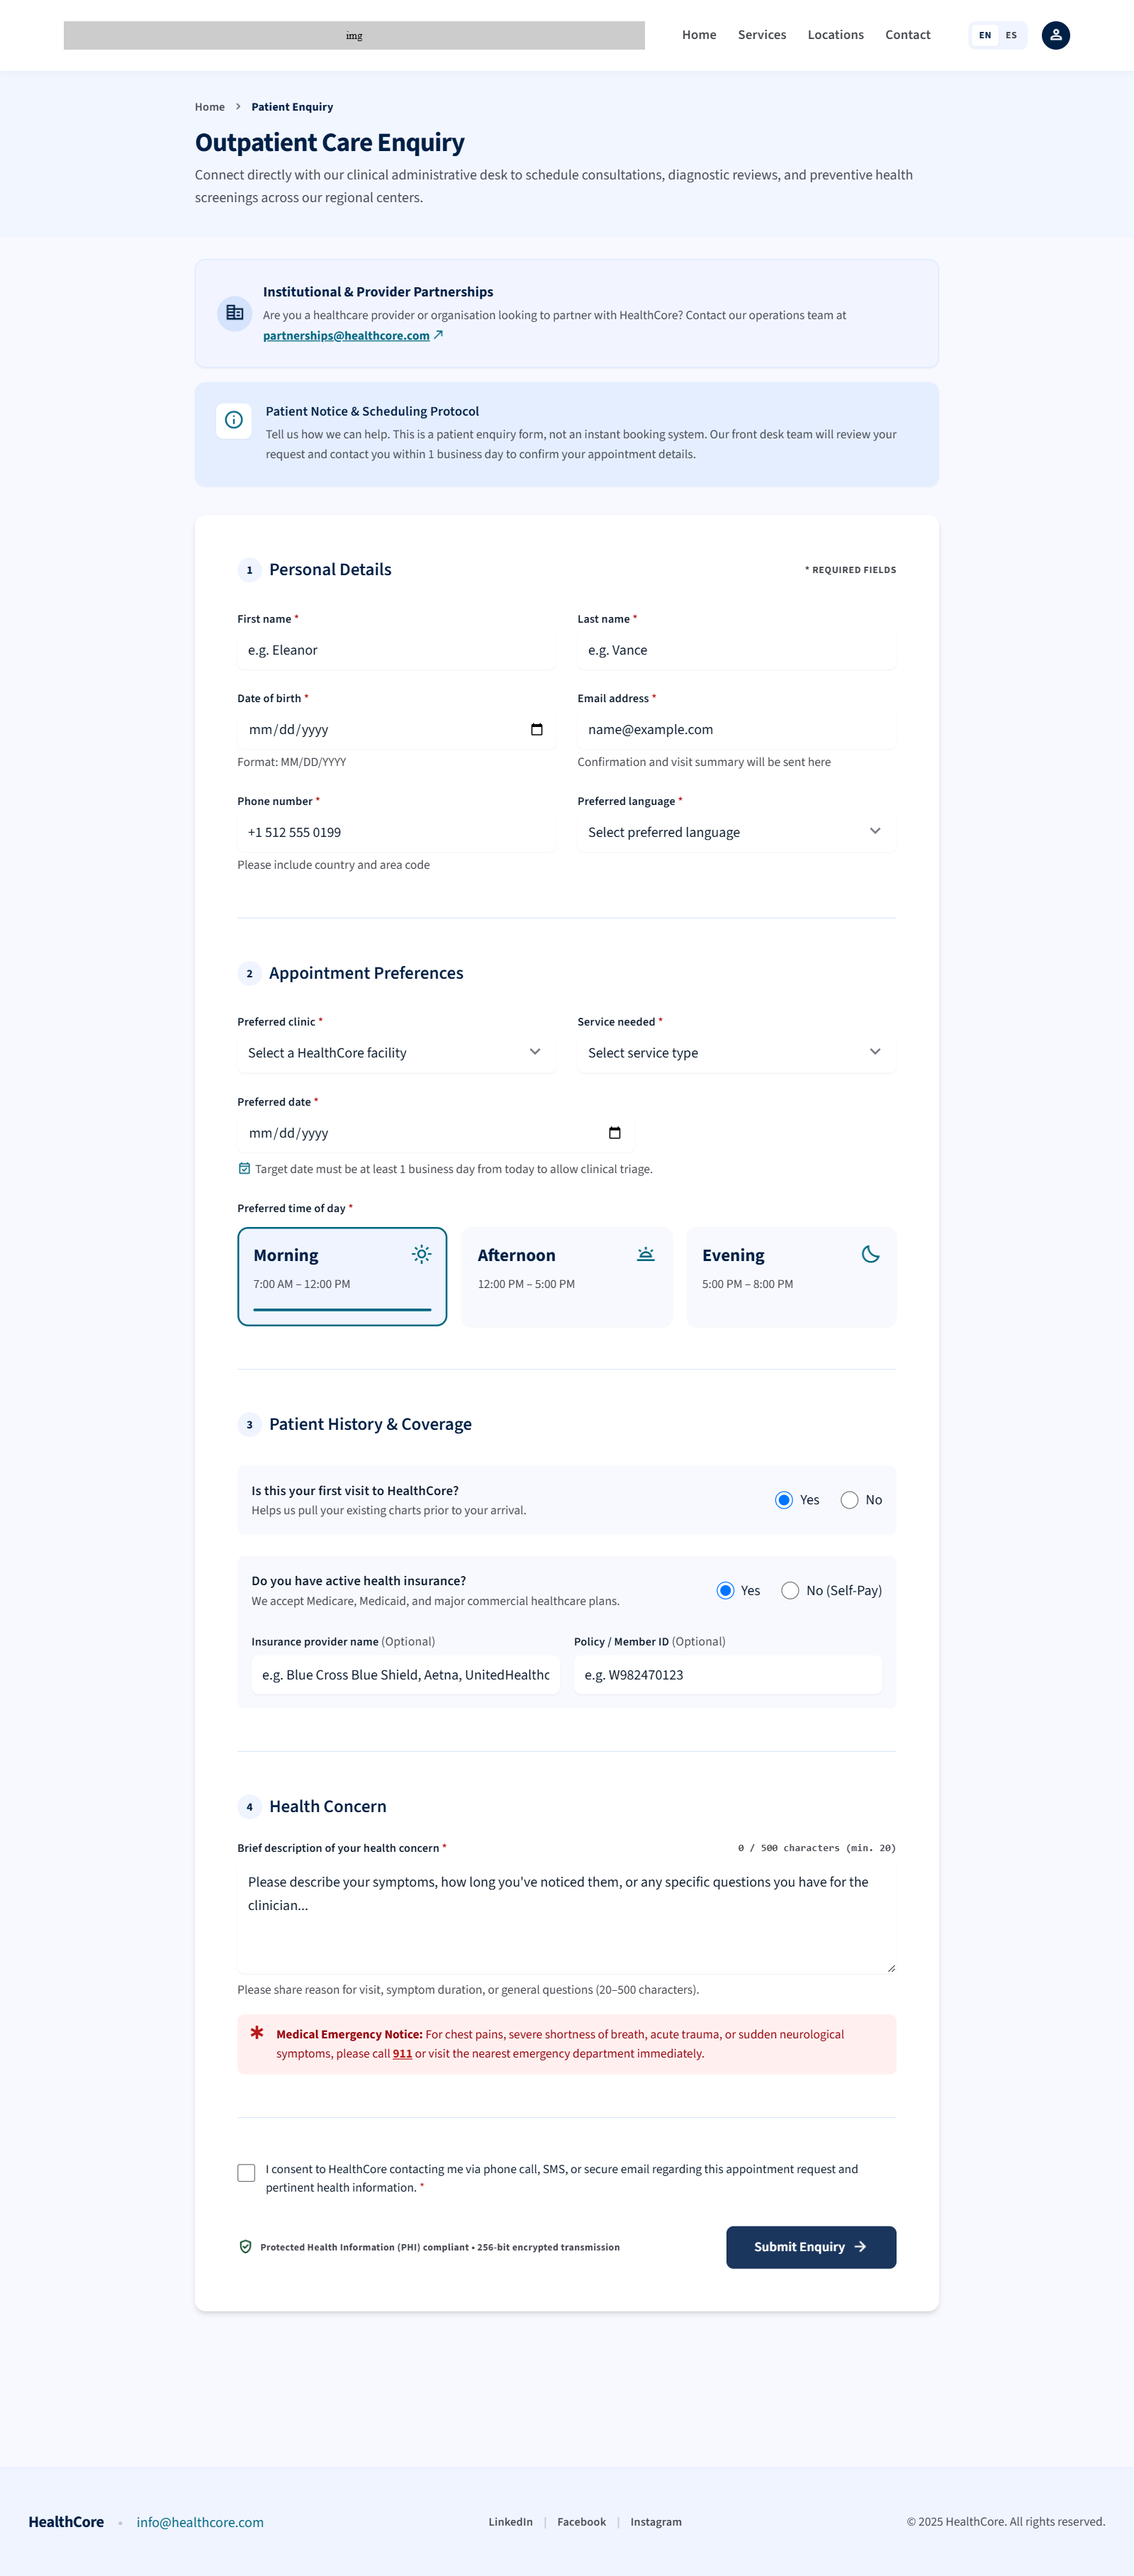
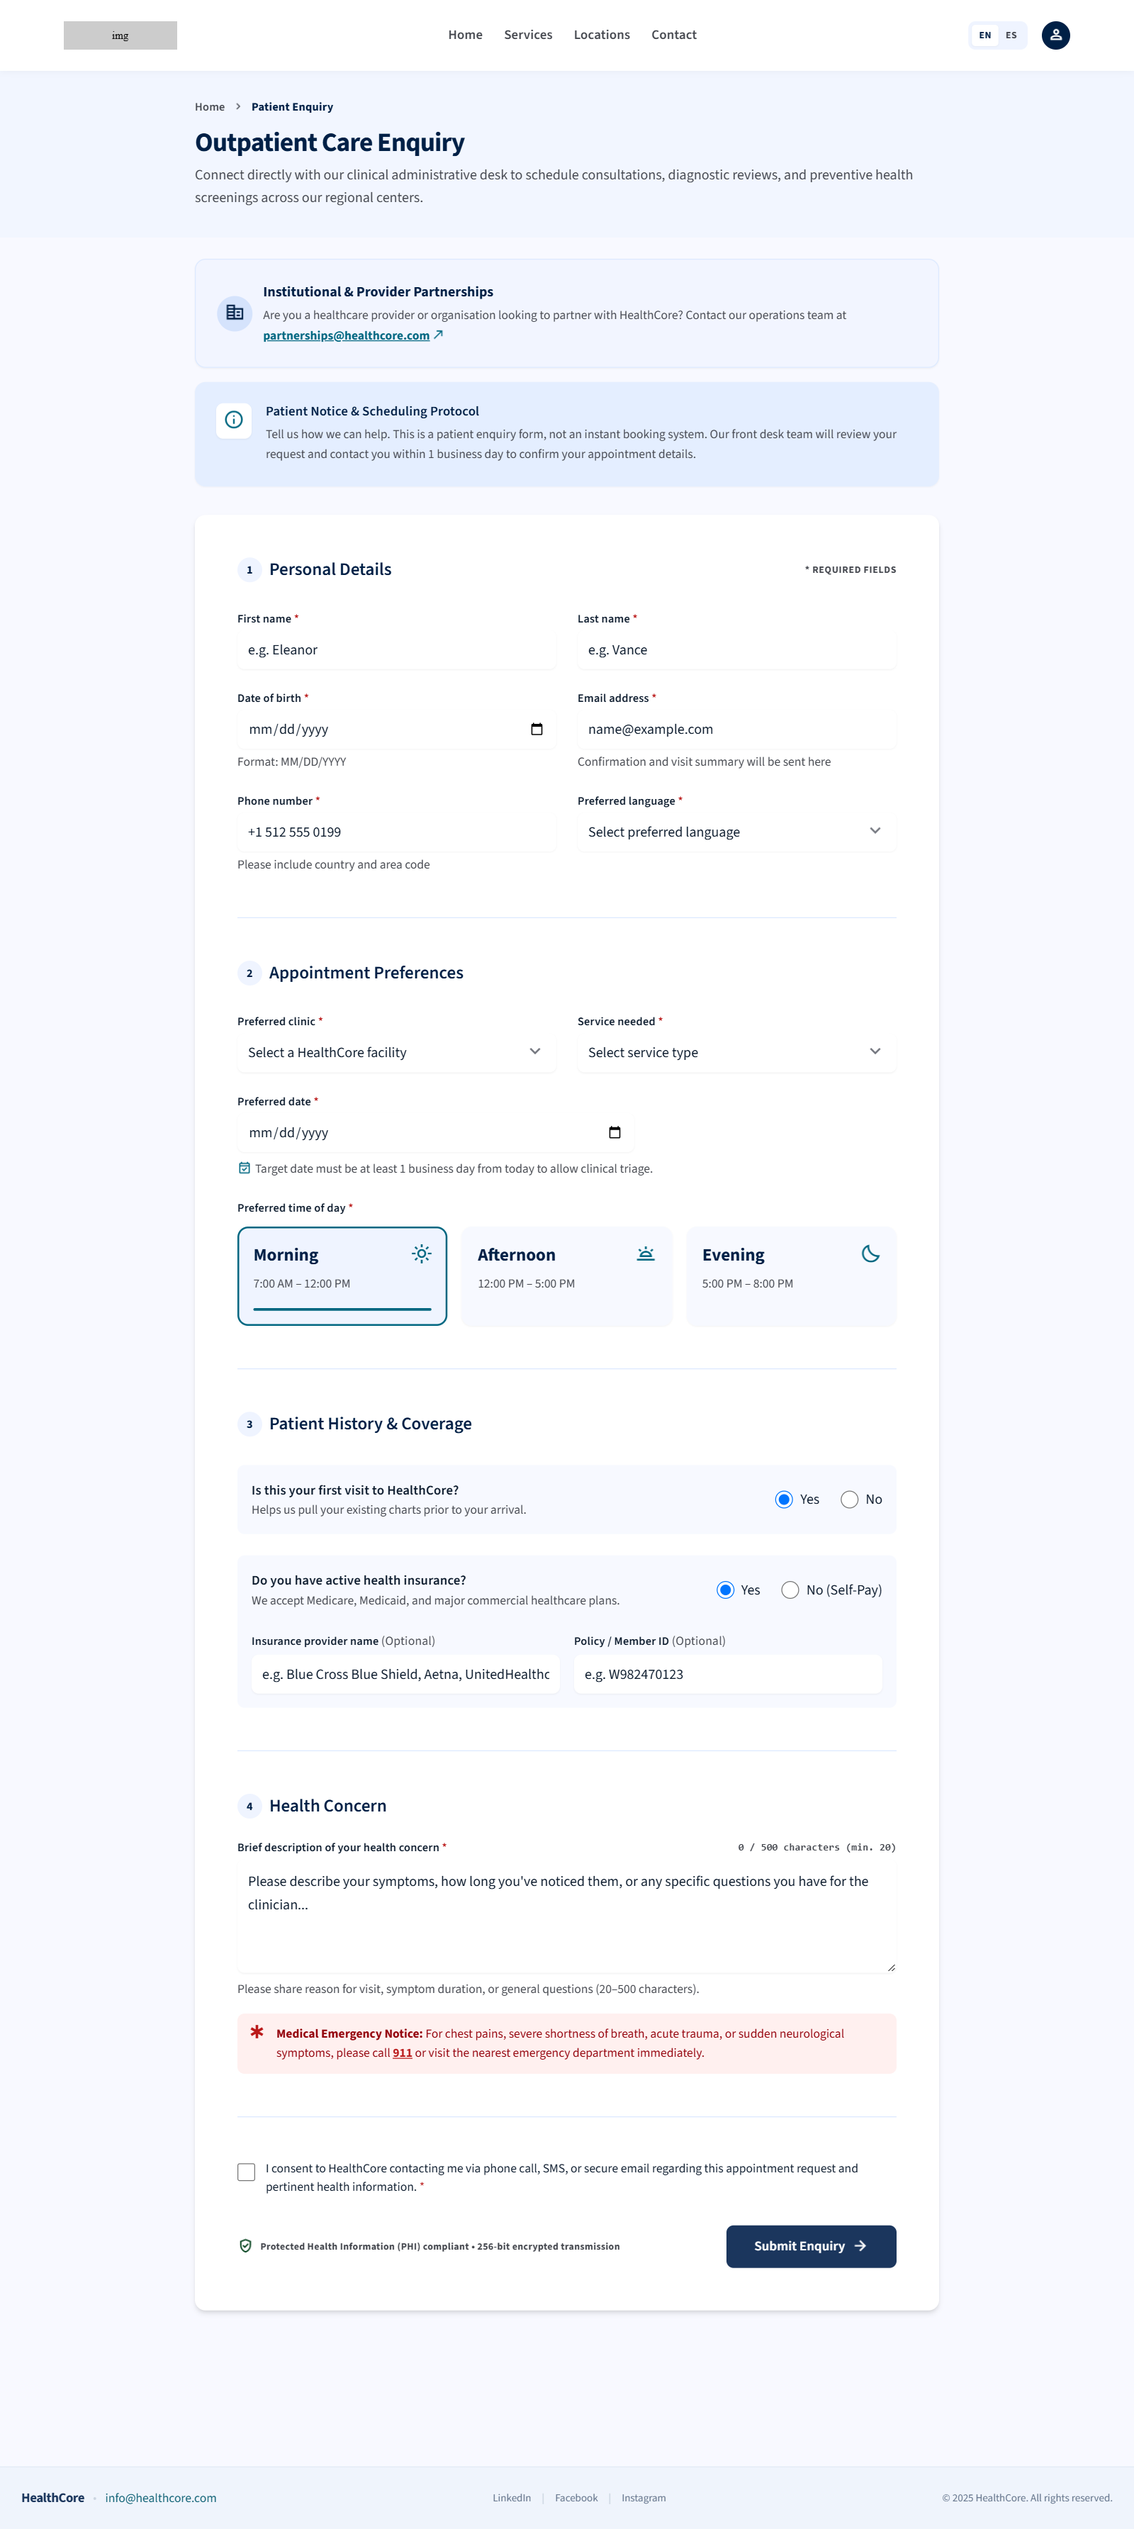
update footer

diff --git a/uis/website/components/footer.html b/uis/website/components/footer.html
@@ -1,35 +1,12 @@
-<footer class="bg-[#eef4ff]">
-    <div
-        class="mx-auto flex max-w-7xl flex-col gap-8 px-5 py-12 md:flex-row md:items-center md:justify-between md:px-8">
-        <div>
-            <p class="text-base font-extrabold text-navy">
-                HealthCore
-            </p>
-
-            <p class="mt-2 text-xs text-slate-600">
-                © 2025 HealthCore. All rights reserved.
-            </p>
-        </div>
-
-        <nav class="flex flex-wrap items-center gap-y-3 text-xs text-slate-600" aria-label="Contact and social media">
-            <a href="mailto:info@healthcore.com" class="pr-3 font-semibold text-teal hover:text-navy sm:pr-4">
-                info@healthcore.com
-            </a>
-
-            <a href="#" class="border-l border-slate-300 px-3 hover:text-teal sm:px-4"
-                aria-label="Visit HealthCore on LinkedIn">
-                LinkedIn
-            </a>
-
-            <a href="#" class="border-l border-slate-300 px-3 hover:text-teal sm:px-4"
-                aria-label="Visit HealthCore on Facebook">
-                Facebook
-            </a>
-
-            <a href="#" class="border-l border-slate-300 pl-3 hover:text-teal sm:pl-4"
-                aria-label="Visit HealthCore on Instagram">
-                Instagram
-            </a>
-        </nav>
-    </div>
+<footer class="border-t border-[#e2eafa] bg-[#eef4ff] md:bg-[#f3f6fa] xl:bg-[#eef4ff]">
+  <div class="mx-auto grid max-w-[1600px] grid-cols-1 justify-items-center gap-y-5 px-5 py-12 text-center md:grid-cols-[minmax(0,1fr)_auto_auto] md:items-center md:justify-items-start md:gap-x-6 md:gap-y-1 md:px-8 md:text-left xl:grid-cols-[auto_auto_minmax(0,1fr)_auto] xl:gap-x-5 xl:px-[60px] xl:py-10">
+    <p class="text-base font-extrabold text-navy md:col-start-1 md:row-start-1 xl:text-lg">HealthCore</p>
+    <a href="mailto:info@healthcore.com" class="text-sm font-semibold text-teal hover:text-navy focus-visible:outline focus-visible:outline-2 focus-visible:outline-offset-4 focus-visible:outline-teal md:col-start-2 md:row-span-2 md:row-start-1 md:text-xs xl:row-span-1 xl:border-l xl:border-slate-300 xl:pl-5 xl:text-base xl:font-normal xl:text-slate-600">info@healthcore.com</a>
+    <nav class="flex items-center text-xs font-semibold text-slate-600 md:col-start-3 md:row-span-2 md:row-start-1 md:border-l md:border-slate-300 md:pl-4 md:text-[11px] md:font-normal xl:row-span-1 xl:justify-self-center xl:border-0 xl:pl-0 xl:text-base" aria-label="Social media">
+      <a href="https://linkedin.com/company/healthcore" class="px-3 hover:text-teal focus-visible:outline focus-visible:outline-2 focus-visible:outline-offset-4 focus-visible:outline-teal" aria-label="Visit HealthCore on LinkedIn">LinkedIn</a>
+      <a href="https://facebook.com/healthcore" class="border-l border-slate-300 px-3 hover:text-teal focus-visible:outline focus-visible:outline-2 focus-visible:outline-offset-4 focus-visible:outline-teal md:border-0 xl:border-l" aria-label="Visit HealthCore on Facebook">Facebook</a>
+      <a href="https://instagram.com/healthcore" class="border-l border-slate-300 px-3 hover:text-teal focus-visible:outline focus-visible:outline-2 focus-visible:outline-offset-4 focus-visible:outline-teal md:border-0 xl:border-l" aria-label="Visit HealthCore on Instagram">Instagram</a>
+    </nav>
+    <p class="text-xs leading-6 text-slate-500 md:col-start-1 md:row-start-2 xl:col-start-4 xl:row-start-1 xl:text-base">© 2025 HealthCore. All rights reserved.</p>
+  </div>
 </footer>
